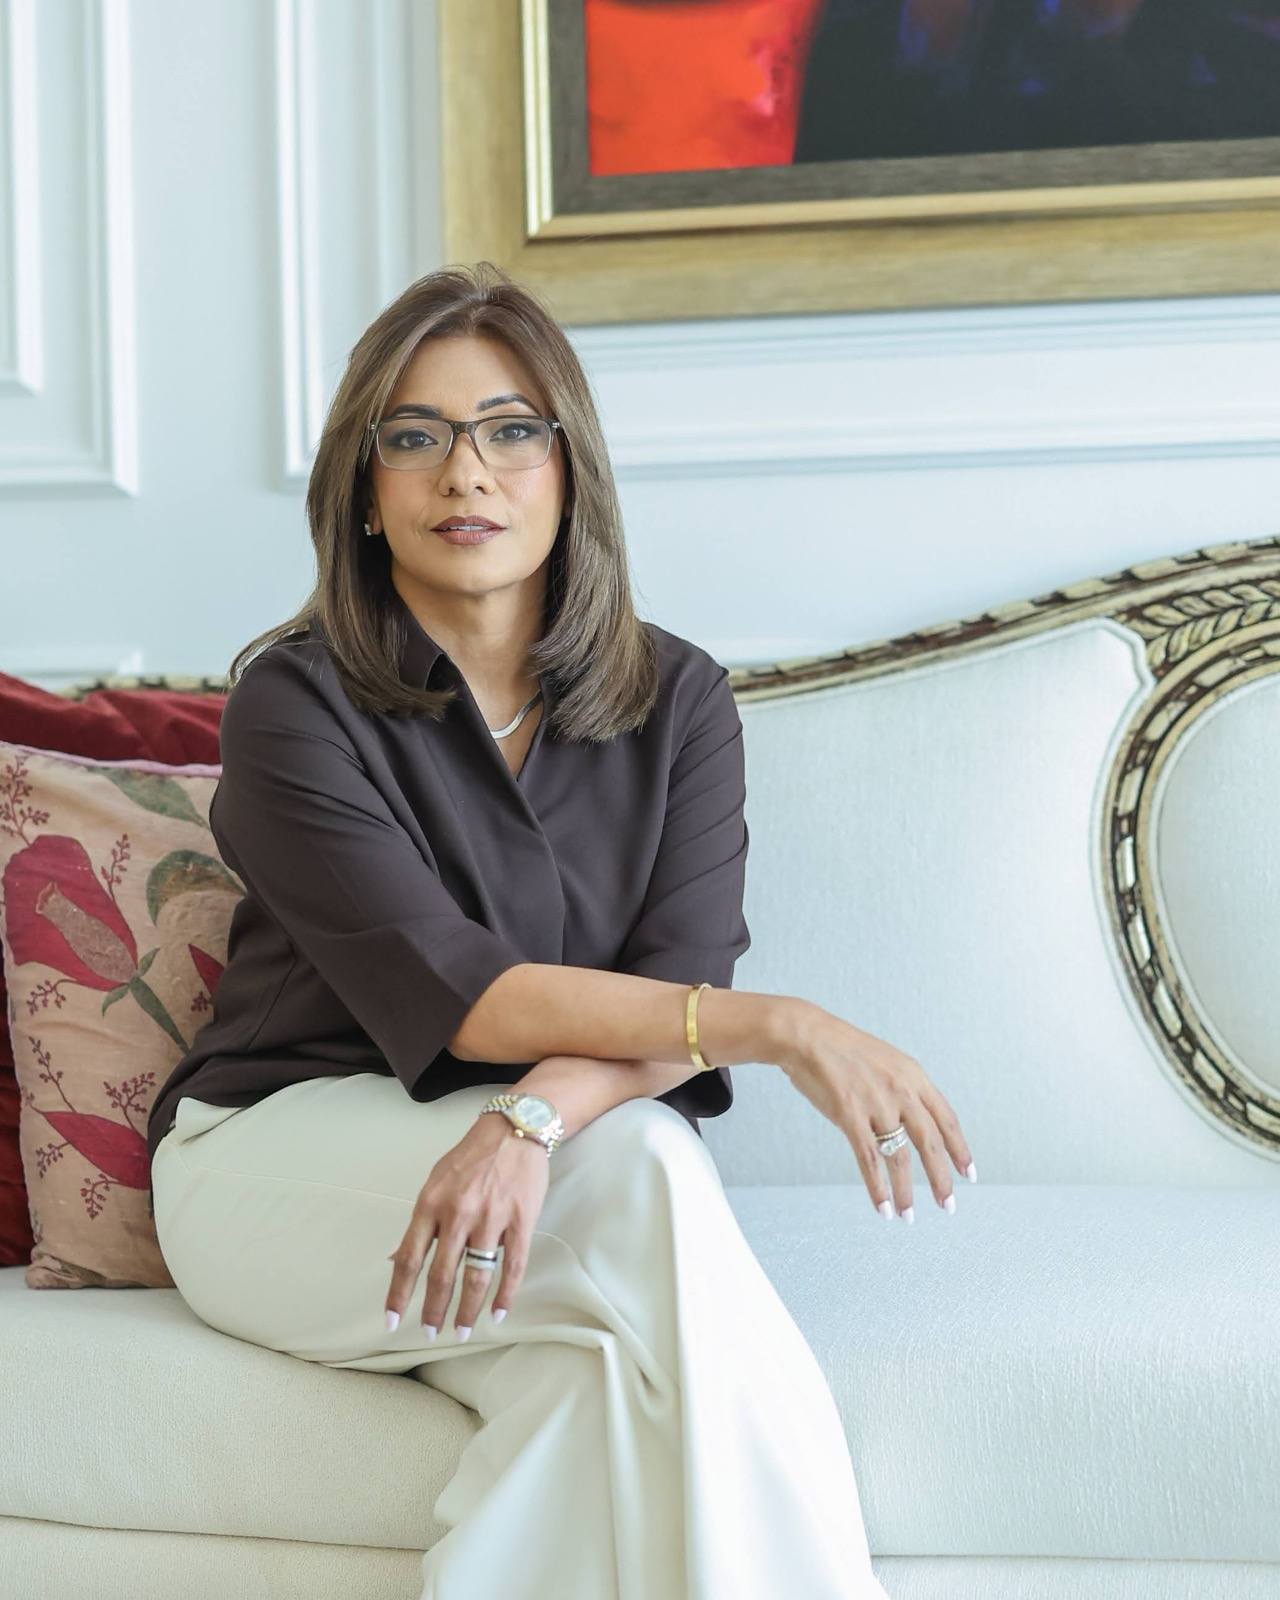
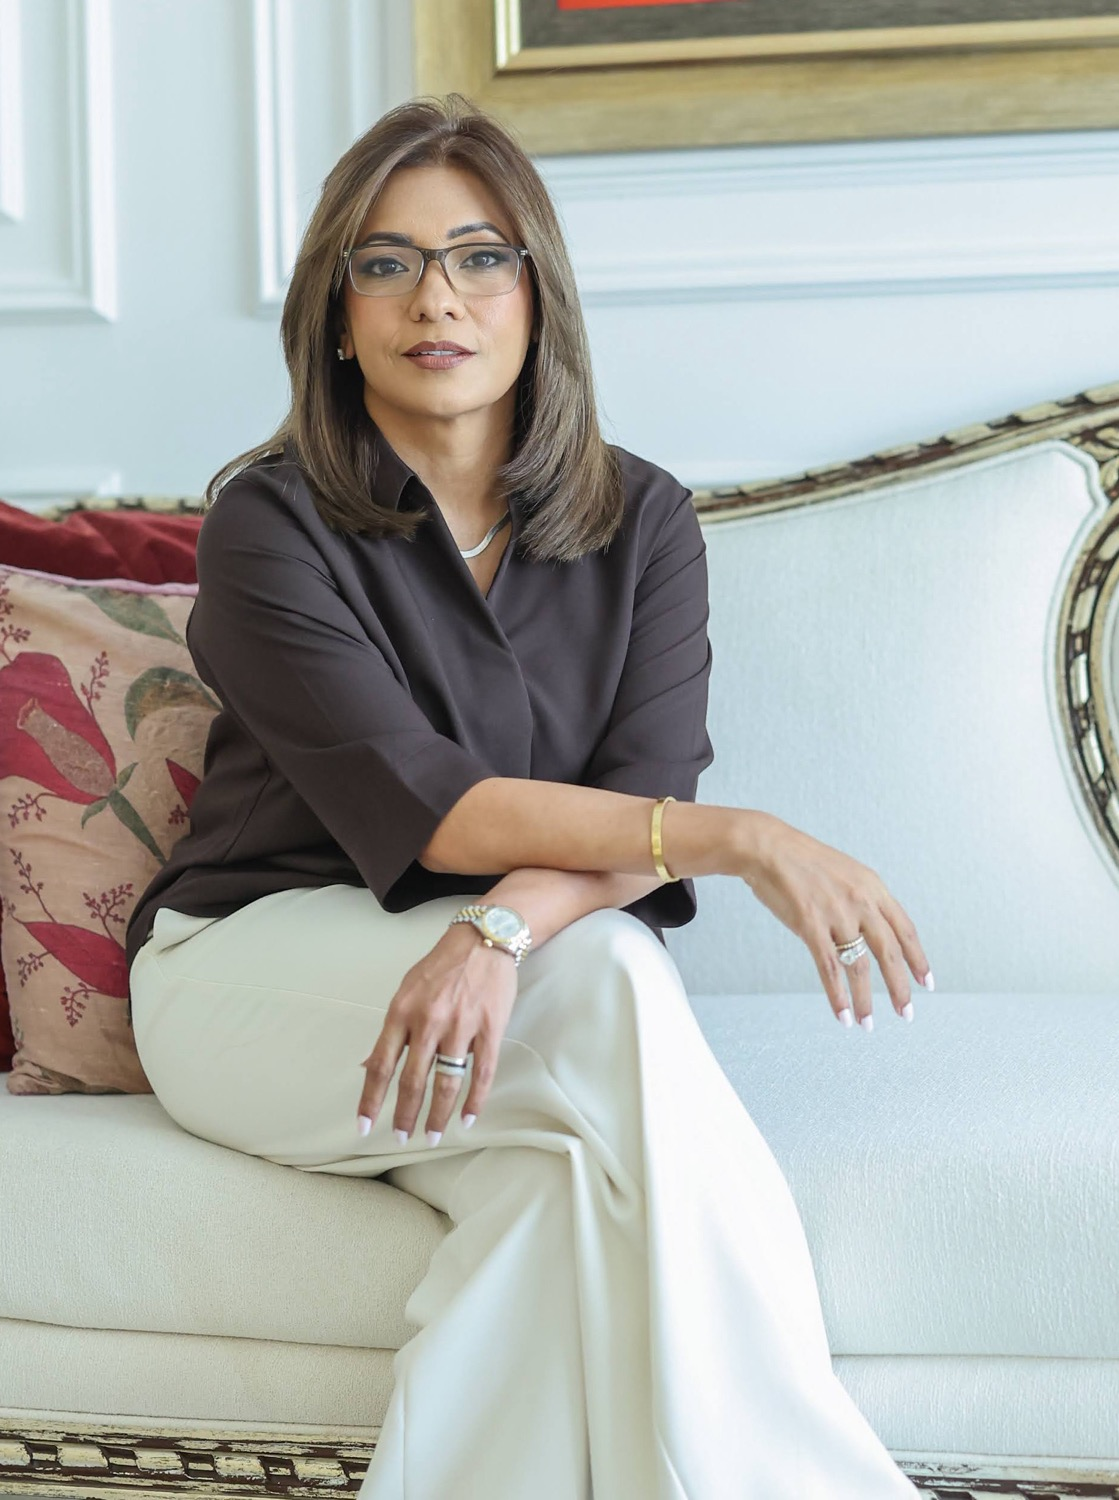
Tighter hero crop

diff --git a/index.html b/index.html
@@ -1,5 +1,5 @@
 <title>WithinWorks Leadership</title>
-<link rel="icon" type="image/png" href="img/favicon.png?v=4">
+<link rel="icon" type="image/png" href="img/favicon.png?v=5">
 <link rel="preconnect" href="https://fonts.googleapis.com">
 <link rel="preconnect" href="https://fonts.gstatic.com" crossorigin>
 <link rel="stylesheet" href="https://fonts.googleapis.com/css2?family=Caveat:wght@500;600&family=Fraunces:ital,opsz,wght@0,9..144,400;0,9..144,500;0,9..144,600;1,9..144,400;1,9..144,500&family=Jost:wght@300;400;500&display=swap">
@@ -907,7 +907,7 @@
 <!-- HERO -->
 <section class="hero">
   <div class="shell hero-grid">
-    <div class="hero-photo"><img src="img/hero.jpg?v=4" alt="Megha Bhalla, executive and transformational coach"></div>
+    <div class="hero-photo"><img src="img/hero.jpg?v=5" alt="Megha Bhalla, executive and transformational coach"></div>
     <div>
       <p class="eyebrow">Executive &amp; transformational coaching</p>
       <h1>Transformation happens from the <span class="lean marked">inside out<svg viewBox="0 0 200 12" aria-hidden="true" preserveAspectRatio="none"><path d="M3 8.5C38 3.2 92 2.4 142 5.1c18 1 38 2.4 55 4.2"/></svg></span>.</h1>
@@ -933,11 +933,11 @@
   <div class="shell">
     <p class="proof-label">A career built across</p>
     <div class="proof-row rise">
-      <img src="img/logos/traveazy.png?v=4" alt="Traveazy Group" data-knockout>
-      <img src="img/logos/holidayme.png?v=4" alt="Holidayme">
-      <img src="img/logos/umrahme.png?v=4" alt="Umrahme">
-      <img src="img/logos/barclays.svg?v=4" alt="Barclays">
-      <img src="img/logos/citibank.svg?v=4" alt="Citibank">
+      <img src="img/logos/traveazy.png?v=5" alt="Traveazy Group" data-knockout>
+      <img src="img/logos/holidayme.png?v=5" alt="Holidayme">
+      <img src="img/logos/umrahme.png?v=5" alt="Umrahme">
+      <img src="img/logos/barclays.svg?v=5" alt="Barclays">
+      <img src="img/logos/citibank.svg?v=5" alt="Citibank">
     </div>
   </div>
 </div>
@@ -1027,7 +1027,7 @@
 
 <!-- QUOTE BAND -->
 <div class="qband band-dark">
-  <img src="img/band.jpg?v=4" alt="Megha Bhalla in her workspace">
+  <img src="img/band.jpg?v=5" alt="Megha Bhalla in her workspace">
   <div class="qband-copy">
     <p class="eyebrow">The approach</p>
     <span class="glyph" aria-hidden="true">&ldquo;</span>
@@ -1101,8 +1101,8 @@
         </ul>
 
         <div class="about-photo">
-          <img src="img/about.jpg?v=4" alt="Megha Bhalla">
-          <img class="badge-sticker" src="img/logos/cpcc-badge.png?v=4" alt="">
+          <img src="img/about.jpg?v=5" alt="Megha Bhalla">
+          <img class="badge-sticker" src="img/logos/cpcc-badge.png?v=5" alt="">
         </div>
       </div>
 
@@ -1265,7 +1265,7 @@
         <a class="btn btn-mocha" href="#">Download the brochure</a>
       </div>
     </div>
-    <div class="cta-photo"><img src="img/online.jpg?v=4" alt="An online coaching session"></div>
+    <div class="cta-photo"><img src="img/online.jpg?v=5" alt="An online coaching session"></div>
   </div>
 </section>
 
